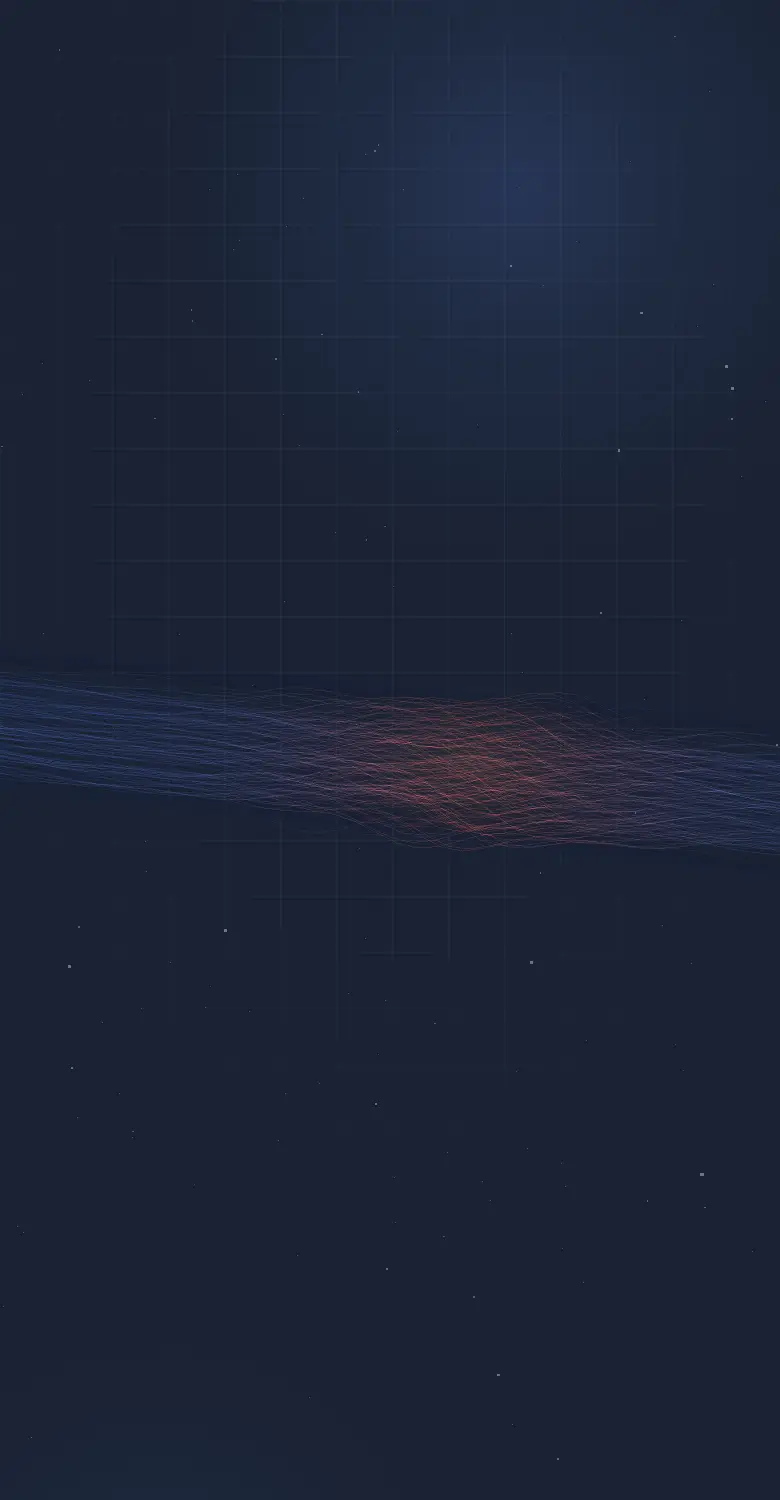
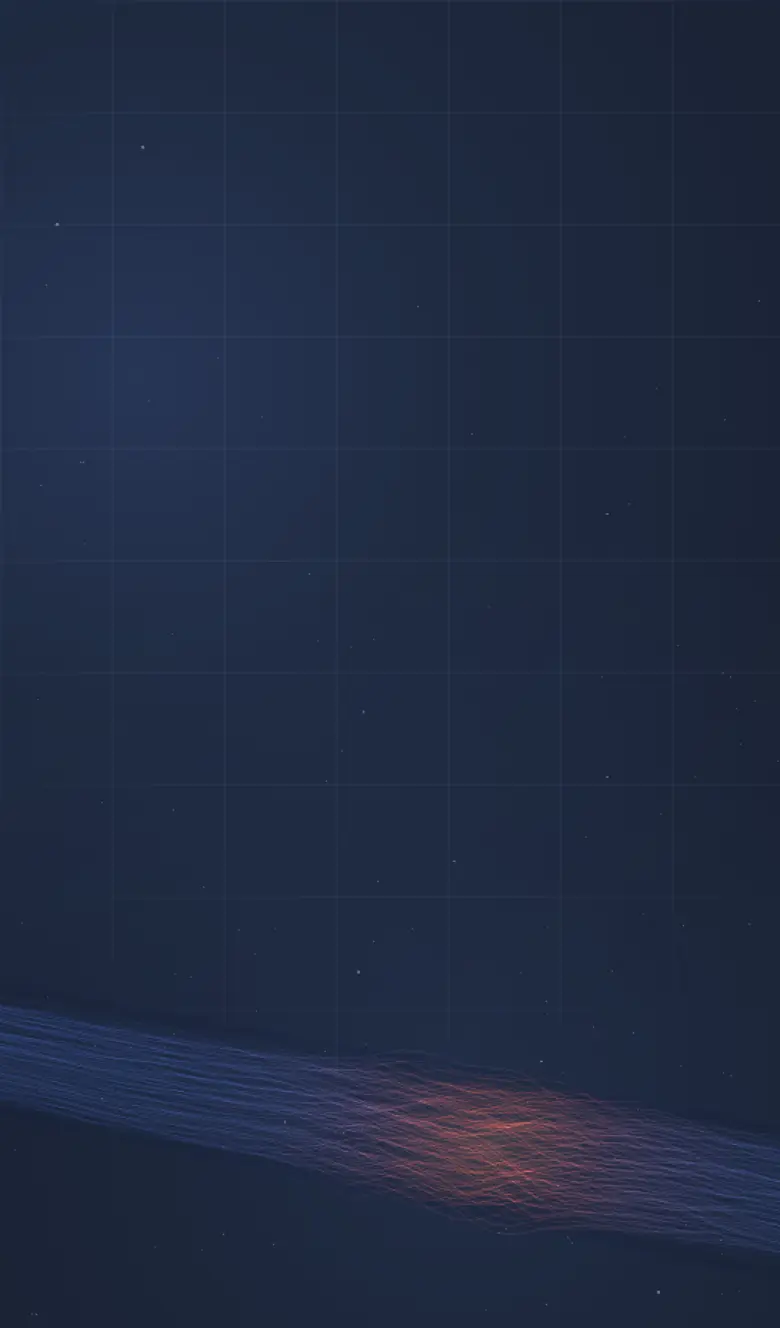
Versión celular más compacta
- Portada: mide lo que ocupa el contenido (sin pantalla completa vacía); el tejido 3D
  queda debajo de los botones y se regenera su imagen previa
- Patologías: en el celular cada grupo se abre al tocarlo y se ocultan las imágenes grandes
- Tratamientos, beneficios y relacionados: carrusel deslizable en el celular
- Menos espacio entre secciones, pasos de metodología más cortos, footer en dos columnas
- Home en celular: de ~23.400 px a ~15.400 px; Lighthouse 0.99 / 1 / 1 / 1

diff --git a/src/scripts/xp.js b/src/scripts/xp.js
@@ -45,10 +45,11 @@ async function startHero() {
   // La portada muestra solo el tejido tendinoso (fibras animadas): la sonda y la aguja
   // aparecen recién en la sección Metodología.
   Object.assign(s, { insert: 0, energy: 0, scanOn: 0, scanAuto: 0, offsetX: mobile ? 0 : 1.5 });
-  Object.assign(s.cam, mobile ? { x: 0, y: 1.0, z: 9.5 } : { x: -0.6, y: 0.9, z: 8.2 });
-  Object.assign(s.look, { x: 0.4, y: 0, z: 0 });
+  // En el celular el tejido se ubica debajo de los botones (la cámara mira más arriba).
+  Object.assign(s.cam, mobile ? { x: 0, y: 3.9, z: 9.5 } : { x: -0.6, y: 0.9, z: 8.2 });
+  Object.assign(s.look, mobile ? { x: 0.2, y: 3.0, z: 0 } : { x: 0.4, y: 0, z: 0 });
   // Al salir de la portada la cámara se acerca levemente
-  m.gsap.to(s.cam, { z: mobile ? 8.5 : 7.2, y: 1.3, ease: 'none', scrollTrigger: { trigger: wrap, start: 'top top', end: 'bottom top', scrub: 1 } });
+  m.gsap.to(s.cam, { z: mobile ? 8.5 : 7.2, y: mobile ? 3.9 : 1.3, ease: 'none', scrollTrigger: { trigger: wrap, start: 'top top', end: 'bottom top', scrub: 1 } });
 }
 
 // ---------------------------------------------------------------- Metodología (historia por scroll)

diff --git a/src/styles/global.css b/src/styles/global.css
@@ -201,6 +201,14 @@
   .faq .answer p { @apply m-0; }
   .faq h3 { @apply m-0 font-display text-[1rem] leading-snug tracking-normal; }
 
+  /* Tarjetas: carrusel deslizable en el celular, grilla desde tablet */
+  .carousel {
+    @apply -mx-5 flex snap-x snap-mandatory gap-4 overflow-x-auto px-5 pb-3 sm:mx-0 sm:grid sm:grid-cols-2 sm:gap-5 sm:overflow-visible sm:px-0 sm:pb-0;
+    scrollbar-width: none;
+  }
+  .carousel::-webkit-scrollbar { display: none; }
+  .carousel > * { @apply w-[82%] shrink-0 snap-start sm:w-auto; }
+
   /* Contenido editorial (markdown) */
   .prose-site {
     @apply prose prose-zinc max-w-none prose-headings:font-display prose-headings:tracking-tight prose-headings:text-navy-950 prose-h2:mt-14 prose-h2:text-[1.75rem] prose-h3:text-[1.2rem] prose-a:font-semibold prose-a:text-navy-600 prose-a:decoration-ice-400/60 prose-a:underline-offset-4 hover:prose-a:text-navy-900 prose-strong:text-navy-950 prose-li:marker:text-ice-500;

diff --git a/src/scripts/motion.js b/src/scripts/motion.js
@@ -124,3 +124,10 @@ if (reduced) {
     document.readyState === 'complete' ? go() : addEventListener('load', go, { once: true });
   }
 }
+
+// ---------- Patologías de la home: en el celular cada grupo se abre al tocarlo
+if (matchMedia('(max-width: 639px)').matches) {
+  document.querySelectorAll('details[data-acc]').forEach((d) => {
+    if (d.dataset.acc !== 'first') d.open = false;
+  });
+}
